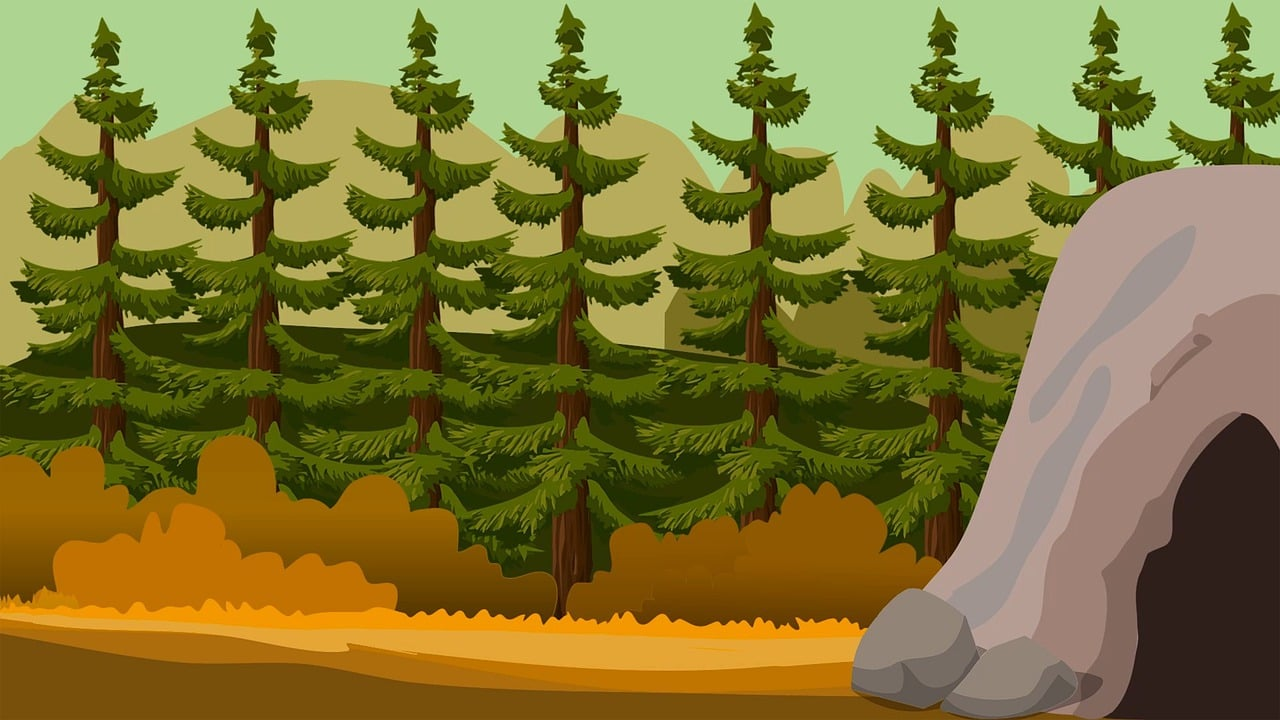
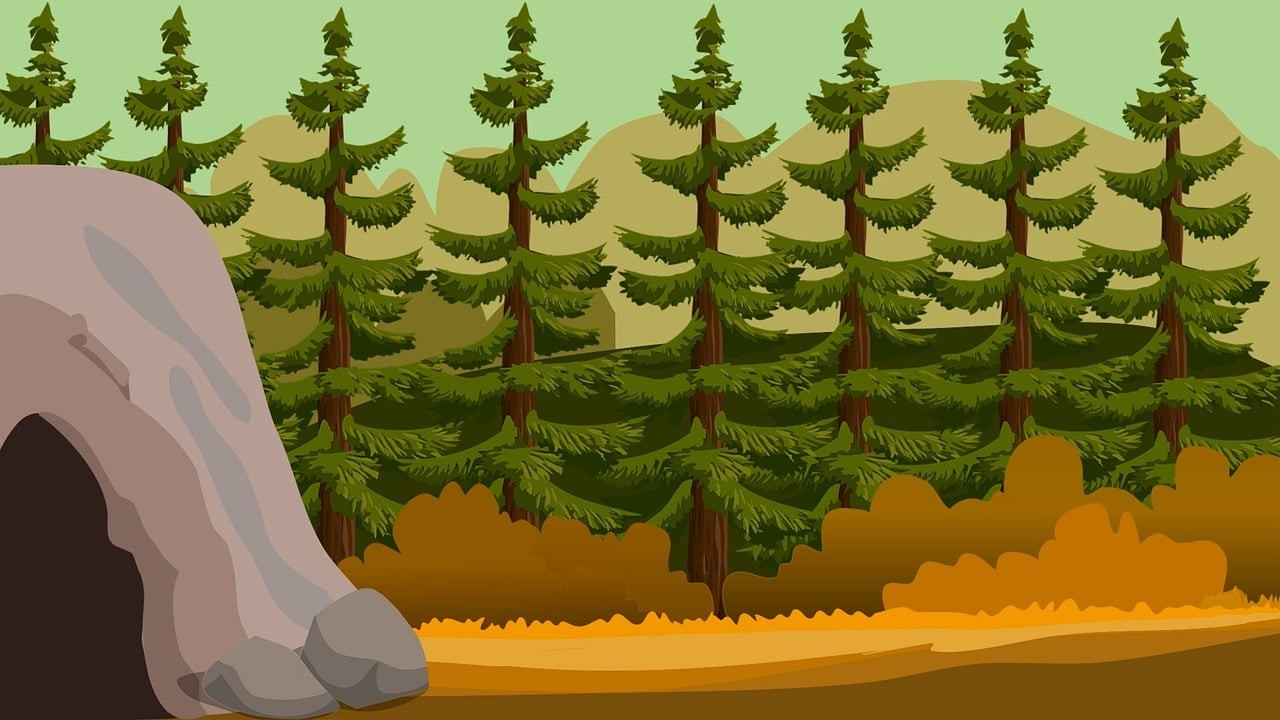
2nd scene

diff --git a/src/Main/UI.java b/src/Main/UI.java
@@ -15,7 +15,7 @@ public class UI {
     public UI(GameManager gm) {
         this.gm = gm;
         createMainField();
-        generateScreen();
+        generateScene();
         window.setVisible(true);
     }
 
@@ -50,7 +50,6 @@ public class UI {
         Image newImg = image.getScaledInstance(1920,880,Image.SCALE_SMOOTH);
         bgIcon = new ImageIcon(newImg);
         bgLabel[bgNum].setIcon(bgIcon);
-
     }
     public void createObject(int bgNum, int x, int y, int w, int h, String fileName, String choice0Name,
                              String choice1Name, String choice2Name, String choice0Command, String choice1Command,
@@ -112,13 +111,43 @@ public class UI {
         });
 
         bgPanel[bgNum].add(objectLabel);
-        bgPanel[bgNum].add(bgLabel[bgNum]);
+
     }
-    public void generateScreen() {
-        // Screen 1
+
+    public void createArrowButton(int bgNum, int x, int y, int w, int h, String command, String arrowFilePath) {
+        ImageIcon arrowIcon = new ImageIcon(Objects.requireNonNull(getClass().getClassLoader().getResource(arrowFilePath)));
+        Image image = arrowIcon.getImage();
+        Image newImg = image.getScaledInstance(w,h,Image.SCALE_SMOOTH);
+        arrowIcon = new ImageIcon(newImg);
+
+        JButton arrowButton = new JButton();
+        arrowButton.setIcon(arrowIcon);
+        arrowButton.setBorderPainted(false);
+        arrowButton.setBounds(x, y, w, h);
+        arrowButton.setBackground(null);
+        arrowButton.setContentAreaFilled(false);
+        arrowButton.setFocusPainted(false);
+
+        arrowButton.addActionListener(gm.aHandler);
+        arrowButton.setActionCommand(command);
+
+        bgPanel[bgNum].add(arrowButton);
+    }
+    public void generateScene() {
+        // Scene 1
         createBackground(0, "main_bgd.png");
         createObject(0,1200,285,900,700,"house.png","Look","Talk","Rest", "lookHouse", "talkHouse", "restHouse");
         createObject(0,300,500,100,300,"knight.png","Look","Talk","Attack", "lookKnight", "talkKnight", "attackKnight");
         createObject(0,1000,800,200,100,"chest.png","Look","Talk","Open", "lookChest", "talkChest", "openChest");
+
+        createArrowButton(0, 0, 150, 50, 50,"goScene2", "leftarrow.png");
+        bgPanel[0].add(bgLabel[0]);
+
+        // Scene 2
+        createBackground(1, "cave_entrance.jpg");
+        createObject(1,0,500,200,300,"empty.png","Look","Talk","Enter", "lookCave", "talkCave", "enterCave");
+        createObject(1,500,500,200,300,"empty.png","Look","Talk","Search", "lookWoods", "talkWoods", "enterWoods");
+        createArrowButton(1, 1500, 150, 50, 50,"goScene1", "rightarrow.png");
+        bgPanel[1].add(bgLabel[1]);
     }
 }

diff --git a/src/Main/SceneChanger.java b/src/Main/SceneChanger.java
@@ -1,0 +1,22 @@
+package Main;
+
+import java.awt.event.ActionListener;
+
+public class SceneChanger {
+    GameManager gm;
+    public SceneChanger(GameManager gm) {
+        this.gm = gm;
+    }
+
+    public void showScene1() {
+        gm.ui.bgPanel[0].setVisible(true);
+        gm.ui.bgPanel[1].setVisible(false);
+        gm.ui.messageText.setText("Találjuk meg a vérfarkast és mentsük meg a lányokat!");
+    }
+
+    public void showScene2() {
+        gm.ui.bgPanel[0].setVisible(false);
+        gm.ui.bgPanel[1].setVisible(true);
+        gm.ui.messageText.setText("");
+    }
+}

diff --git a/src/Main/ActionHandler.java b/src/Main/ActionHandler.java
@@ -23,6 +23,10 @@ public class ActionHandler implements ActionListener {
             case "lookChest": gm.ev1.lookChest(); break;
             case "talkChest": gm.ev1.talkChest(); break;
             case "openChest": gm.ev1.openChest(); break;
+
+            //Change scenes
+            case "goScene1": gm.sc.showScene1(); break;
+            case "goScene2": gm.sc.showScene2(); break;
         }
     }
 }

diff --git a/src/Main/GameManager.java b/src/Main/GameManager.java
@@ -6,12 +6,13 @@ public class GameManager {
     ActionHandler aHandler = new ActionHandler(this);
     public UI ui = new UI(this);
     public Event01 ev1 = new Event01(this);
+    public SceneChanger sc = new SceneChanger(this);
 
     public static void main(String[] args) {
         new GameManager();
     }
 
     public GameManager() {
-
+        sc.showScene1();
     }
 }
